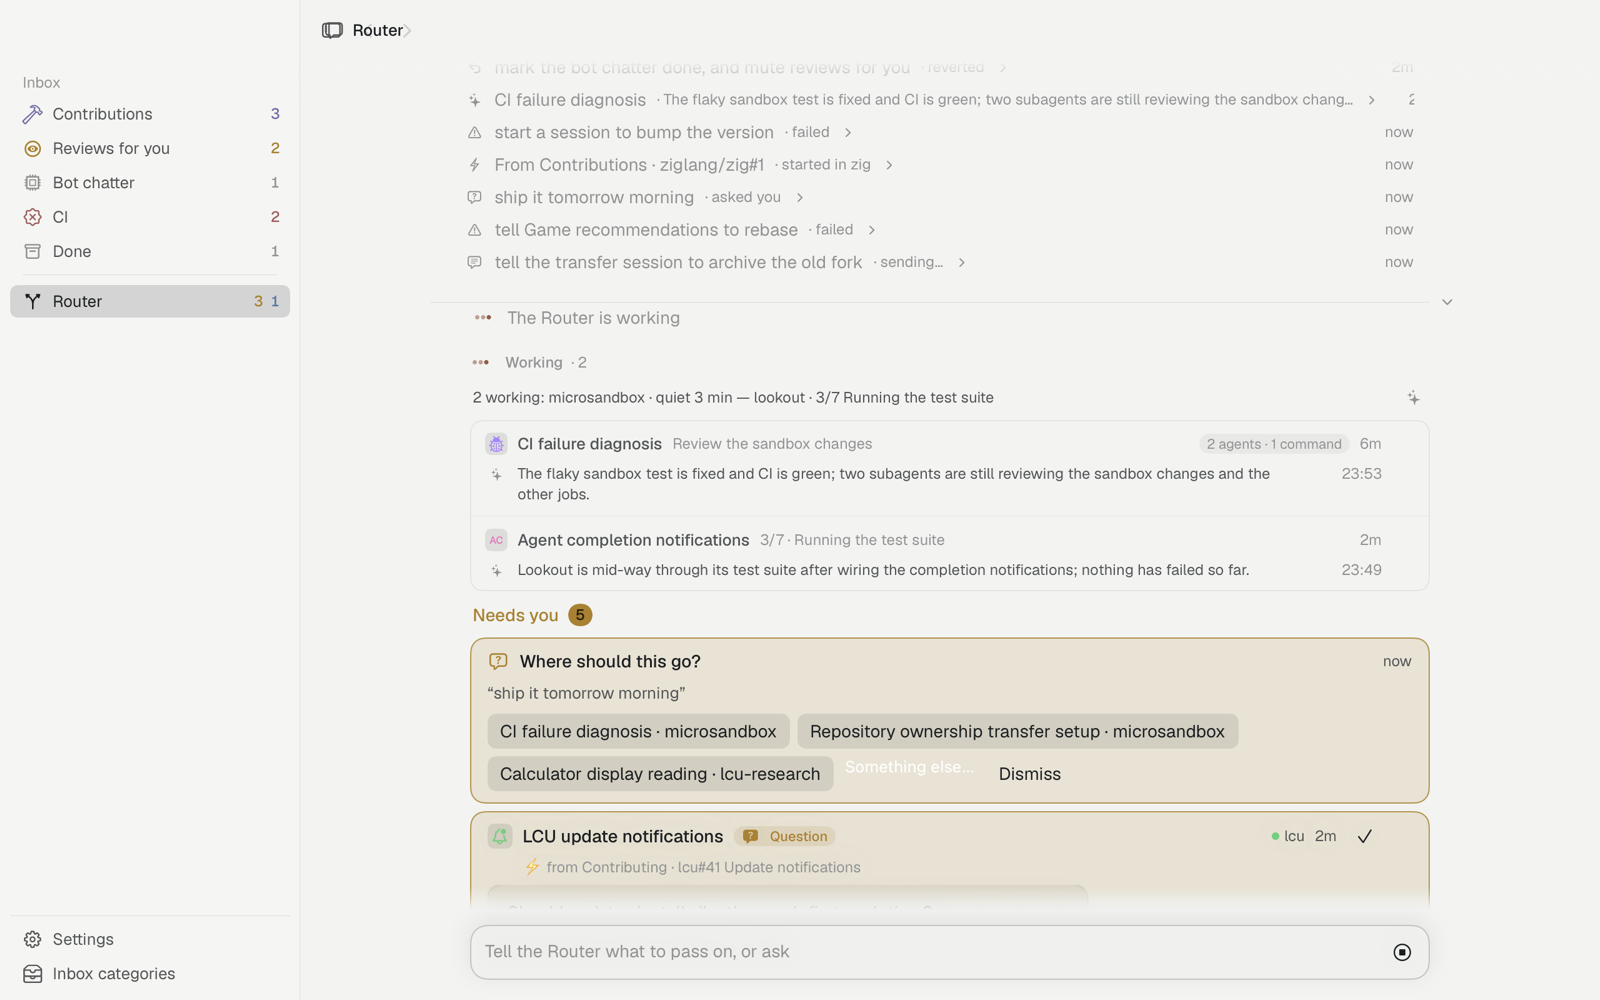
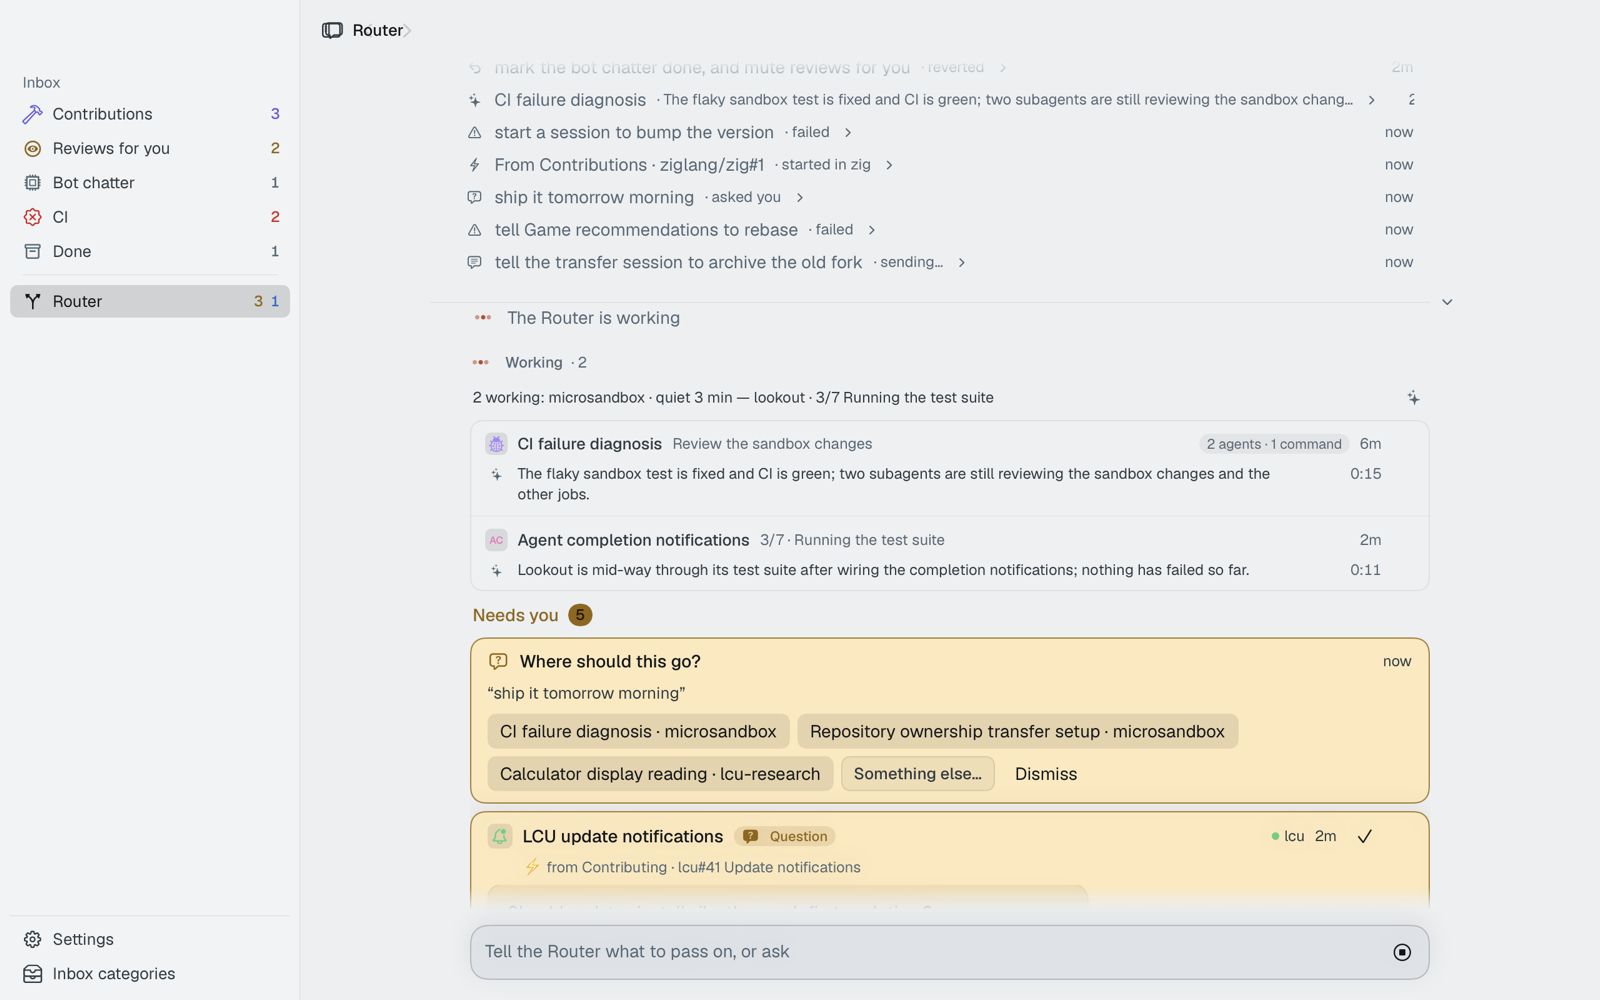
fix: Light mode reads as well as dark: every colour keeps against paper the contrast it has against the dark ground, neutrals on the studio's cool hue and colours with their own hue and saturation, so text and tags read and tints stay faint; the Router's needs-you cards take a pale amber of their ow

diff --git a/Sources/Lookout/Brand.swift b/Sources/Lookout/Brand.swift
@@ -37,22 +37,72 @@ enum Brand {
 
     private static func map(_ c: RGB) -> RGB {
         let hi = max(c.r, c.g, c.b), lo = min(c.r, c.g, c.b), l = (hi + lo) / 2
-        if hi - lo < 0.09 {
-            // a neutral: keep its lightness on the studio ramp; on light, the dark surfaces (t < 0.2) stay within a few
-            // steps of paper and text runs from there down to ink
-            var t = min(1, max(0, (l - 0.04) / 0.92))
-            if isLight { t = t < 0.2 ? 1 - t * 0.35 : 0.93 - (t - 0.2) / 0.8 * 0.9 }
-            return mix(deep, paper, t)
+        let neutral = hi - lo < 0.09
+        if !isLight {
+            // dark: a neutral keeps its lightness on the studio ramp; colours are unchanged
+            return neutral ? mix(deep, paper, min(1, max(0, (l - 0.04) / 0.92))) : c
         }
-        // a colour keeps its hue; on paper the light ones darken so they still read, and the dark tints behind badges
-        // and banners become pale washes
-        if isLight, l > 0.5 { return mix(c, ink0, 0.32) }
-        if isLight, l < 0.35 { return mix(c, paper, 0.84) }
-        return c
+        // light: everything keeps the contrast it has against the dark ground, now against paper, so text reads as
+        // well as in dark and tints stay as faint. Neutrals take the studio's cool hue; colours keep hue and saturation
+        // (capped just above AA, so text reads and the same hue still makes a clean tint).
+        let ratio = (luminance(c) + 0.05) / (luminance(darkGround) + 0.05)
+        let target = max(luminance(ink0), (luminance(paper) + 0.05) / min(ratio, neutral ? 21 : 4.8) - 0.05)
+        var (h, s, _) = hsl(c)
+        if neutral { (h, s) = (205, 0.16) }
+        return withLuminance(h: h, s: s, target)
+    }
+
+    /// The darkest ground of the dark design (CDS surface 0): what paper stands in for.
+    private static let darkGround = RGB(r: 0x0B / 255, g: 0x0B / 255, b: 0x0B / 255)
+
+    /// A tint of `color` at `opacity`, as a card's fill: on dark the colour itself made transparent; on light a pale,
+    /// opaque colour of the same hue, since a transparent text colour over the ground turns grey.
+    static func wash(_ color: Color, _ opacity: Double) -> Color {
+        guard isLight, let c = NSColor(color).usingColorSpace(.sRGB) else { return color.opacity(opacity) }
+        let (h, s, _) = hsl(RGB(r: c.redComponent, g: c.greenComponent, b: c.blueComponent))
+        let out = rgb(h: h, s: s, l: 1 - opacity * 0.9)
+        return Color(.sRGB, red: out.r, green: out.g, blue: out.b)
     }
 
     private static func mix(_ a: RGB, _ b: RGB, _ t: Double) -> RGB {
         RGB(r: a.r + (b.r - a.r) * t, g: a.g + (b.g - a.g) * t, b: a.b + (b.b - a.b) * t)
+    }
+
+    private static func luminance(_ c: RGB) -> Double {
+        func lin(_ v: Double) -> Double { v <= 0.04045 ? v / 12.92 : pow((v + 0.055) / 1.055, 2.4) }
+        return 0.2126 * lin(c.r) + 0.7152 * lin(c.g) + 0.0722 * lin(c.b)
+    }
+
+    private static func hsl(_ c: RGB) -> (Double, Double, Double) {
+        let hi = max(c.r, c.g, c.b), lo = min(c.r, c.g, c.b), l = (hi + lo) / 2, d = hi - lo
+        guard d > 0 else { return (0, 0, l) }
+        let s = d / (1 - abs(2 * l - 1))
+        var h: Double = hi == c.r ? (c.g - c.b) / d : hi == c.g ? (c.b - c.r) / d + 2 : (c.r - c.g) / d + 4
+        h *= 60
+        return (h < 0 ? h + 360 : h, min(1, s), l)
+    }
+
+    private static func rgb(h: Double, s: Double, l: Double) -> RGB {
+        let c = (1 - abs(2 * l - 1)) * s, x = c * (1 - abs((h / 60).truncatingRemainder(dividingBy: 2) - 1)), m = l - c / 2
+        let (r, g, b): (Double, Double, Double) = switch h {
+        case ..<60: (c, x, 0)
+        case ..<120: (x, c, 0)
+        case ..<180: (0, c, x)
+        case ..<240: (0, x, c)
+        case ..<300: (x, 0, c)
+        default: (c, 0, x)
+        }
+        return RGB(r: r + m, g: g + m, b: b + m)
+    }
+
+    /// The colour of this hue and saturation whose luminance is `target` (lightness found by bisection).
+    private static func withLuminance(h: Double, s: Double, _ target: Double) -> RGB {
+        var lo = 0.0, hi = 1.0
+        for _ in 0..<24 {
+            let mid = (lo + hi) / 2
+            if luminance(rgb(h: h, s: s, l: mid)) < target { lo = mid } else { hi = mid }
+        }
+        return rgb(h: h, s: s, l: (lo + hi) / 2)
     }
 
     // MARK: Type

diff --git a/Sources/Lookout/RouterPage.swift b/Sources/Lookout/RouterPage.swift
@@ -1309,7 +1309,7 @@ private struct CardView: View {
             }
         }
         .frame(maxWidth: .infinity, alignment: .leading)
-        .background(RoundedRectangle(cornerRadius: 12, style: .continuous).fill(warm.opacity(expanded ? 0.15 : hovered ? 0.13 : 0.09)))
+        .background(RoundedRectangle(cornerRadius: 12, style: .continuous).fill(Brand.wash(warm, expanded ? 0.15 : hovered ? 0.13 : 0.09)))
         .overlay {
             RoundedRectangle(cornerRadius: 12, style: .continuous)
                 .strokeBorder(warm.opacity(marked || expanded || focused ? 0.8 : 0.4), lineWidth: marked ? 1.5 : 1)
@@ -1455,13 +1455,13 @@ private struct AskBackCard: View {
                         .background(RoundedRectangle(cornerRadius: 7, style: .continuous).fill(CDS.Fill.field))
                         .overlay { RoundedRectangle(cornerRadius: 7, style: .continuous).strokeBorder(CDS.border, lineWidth: 1) }
                 }
-                .menuStyle(.borderlessButton).menuIndicator(.hidden).fixedSize()
+                .menuStyle(.button).buttonStyle(.plain).menuIndicator(.hidden).fixedSize()
                 ClaudeButton("Dismiss", variant: .ghost, size: .sm) { store.routerDispatcher.dismiss(ask.id) }
             }
         }
         .padding(.horizontal, 14).padding(.vertical, 10)
         .frame(maxWidth: .infinity, alignment: .leading)
-        .background(RoundedRectangle(cornerRadius: 12, style: .continuous).fill(warm.opacity(0.15)))
+        .background(RoundedRectangle(cornerRadius: 12, style: .continuous).fill(Brand.wash(warm, 0.15)))
         .overlay { RoundedRectangle(cornerRadius: 12, style: .continuous).strokeBorder(warm.opacity(0.8), lineWidth: 1) }
         .accessibilityElement(children: .contain)
         .accessibilityLabel("Where should this go? \(ask.message)")

diff --git a/docs/design/fjord/index.html b/docs/design/fjord/index.html
@@ -175,7 +175,7 @@ a{color:var(--link);text-decoration:underline;text-underline-offset:3px;text-dec
       <div class="row"><b>Neutrals</b><span>Claude's warm greys become the studio's cool ink ramp, each surface keeping its lightness; light mode flips them onto paper.</span></div>
       <div class="row"><b>Accent</b><span>Claude's blue stays in the app. Fonte remains the studio's colour for the site and the mark.</span></div>
       <div class="row"><b>Kept</b><span>Layout, icons, category colours, the amber "needs you" cards, tags, density. Clay stays for what is Claude's.</span></div>
-      <div class="row"><b>To fix</b><span>"Something else…" is drawn by macOS in white on light; the light amber card wash reads a little muddy; a change of the Mac's appearance applies at the next launch.</span></div>
+      <div class="row"><b>To fix</b><span>A change of the Mac's appearance applies at the next launch.</span></div>
     </div>
   </div>
 </div></section>
